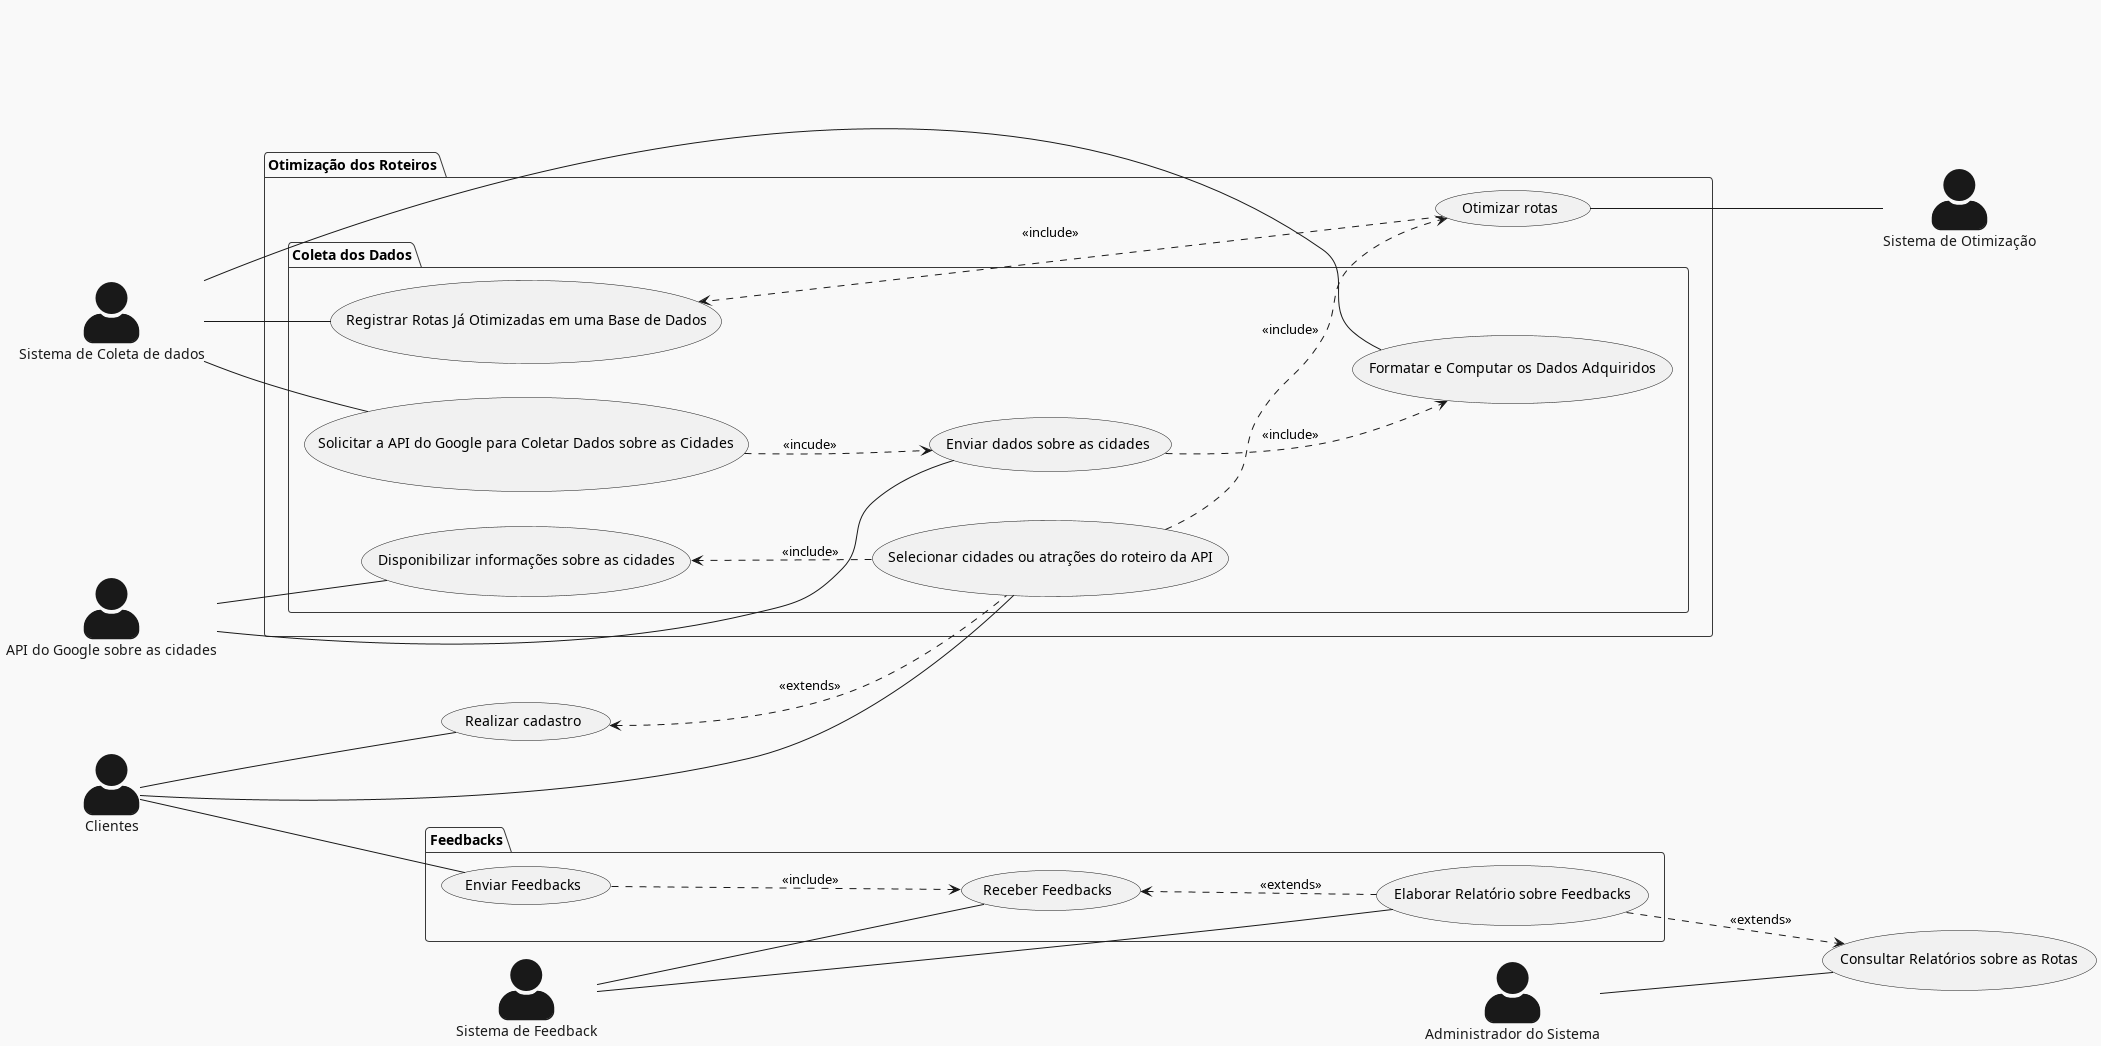
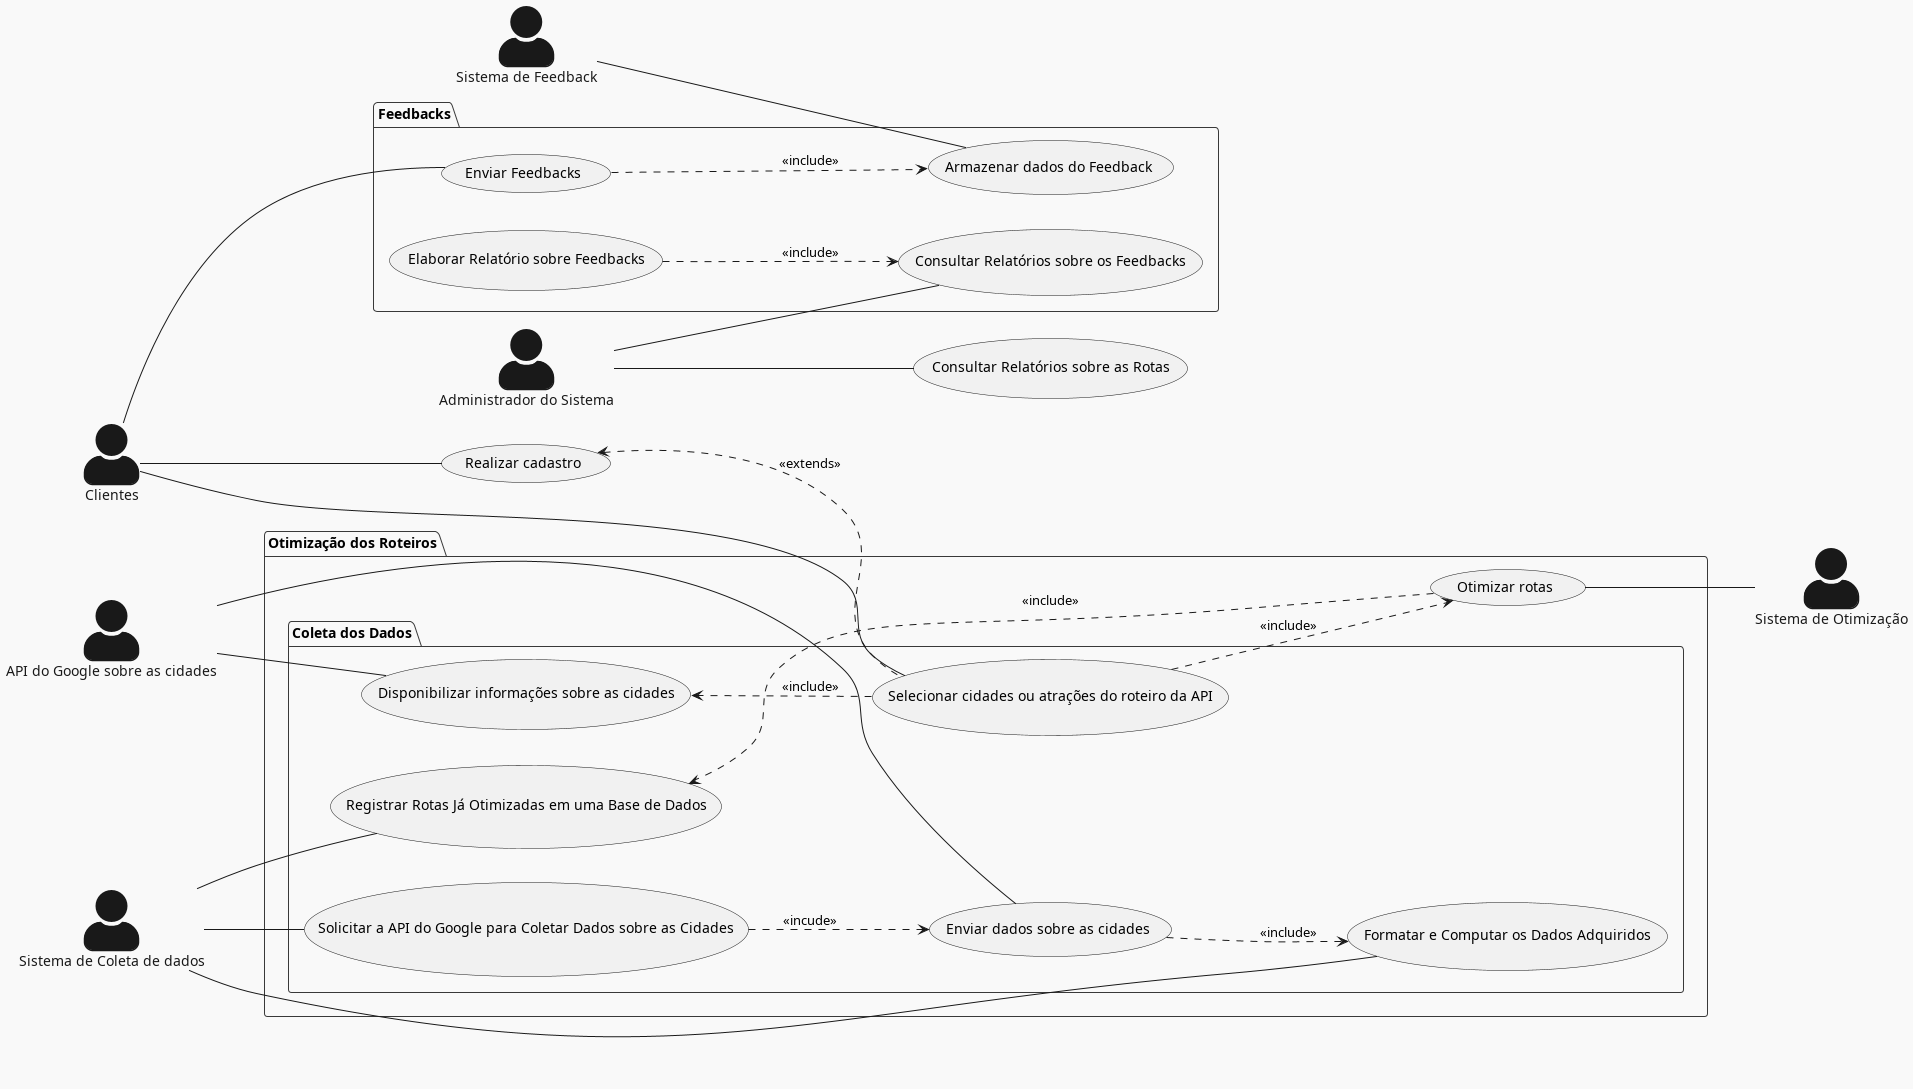
Mais correções DCU

diff --git a/Relatório/Semana-1/Diagramas/DCU.md b/Relatório/Semana-1/Diagramas/DCU.md
@@ -52,12 +52,11 @@ sys_admin -- (Consultar Relatórios sobre as Rotas)
 
 package "Feedbacks"{
 
-(Enviar Feedbacks) ..> (Receber Feedbacks) : <<include>>
-(Receber Feedbacks) <.. (Elaborar Relatório sobre Feedbacks) : <<extends>>
-(Elaborar Relatório sobre Feedbacks) ..> (Consultar Relatórios sobre as Rotas) : <<extends>>
+(Enviar Feedbacks) ..> (Armazenar dados do Feedback) : <<include>>
+(Elaborar Relatório sobre Feedbacks) ..> (Consultar Relatórios sobre os Feedbacks) : <<include>>
 cliente -- (Enviar Feedbacks)
-feedback -- (Receber Feedbacks)
-feedback -- (Elaborar Relatório sobre Feedbacks)
+feedback -- (Armazenar dados do Feedback)
+sys_admin -- (Consultar Relatórios sobre os Feedbacks)
 
 
 
